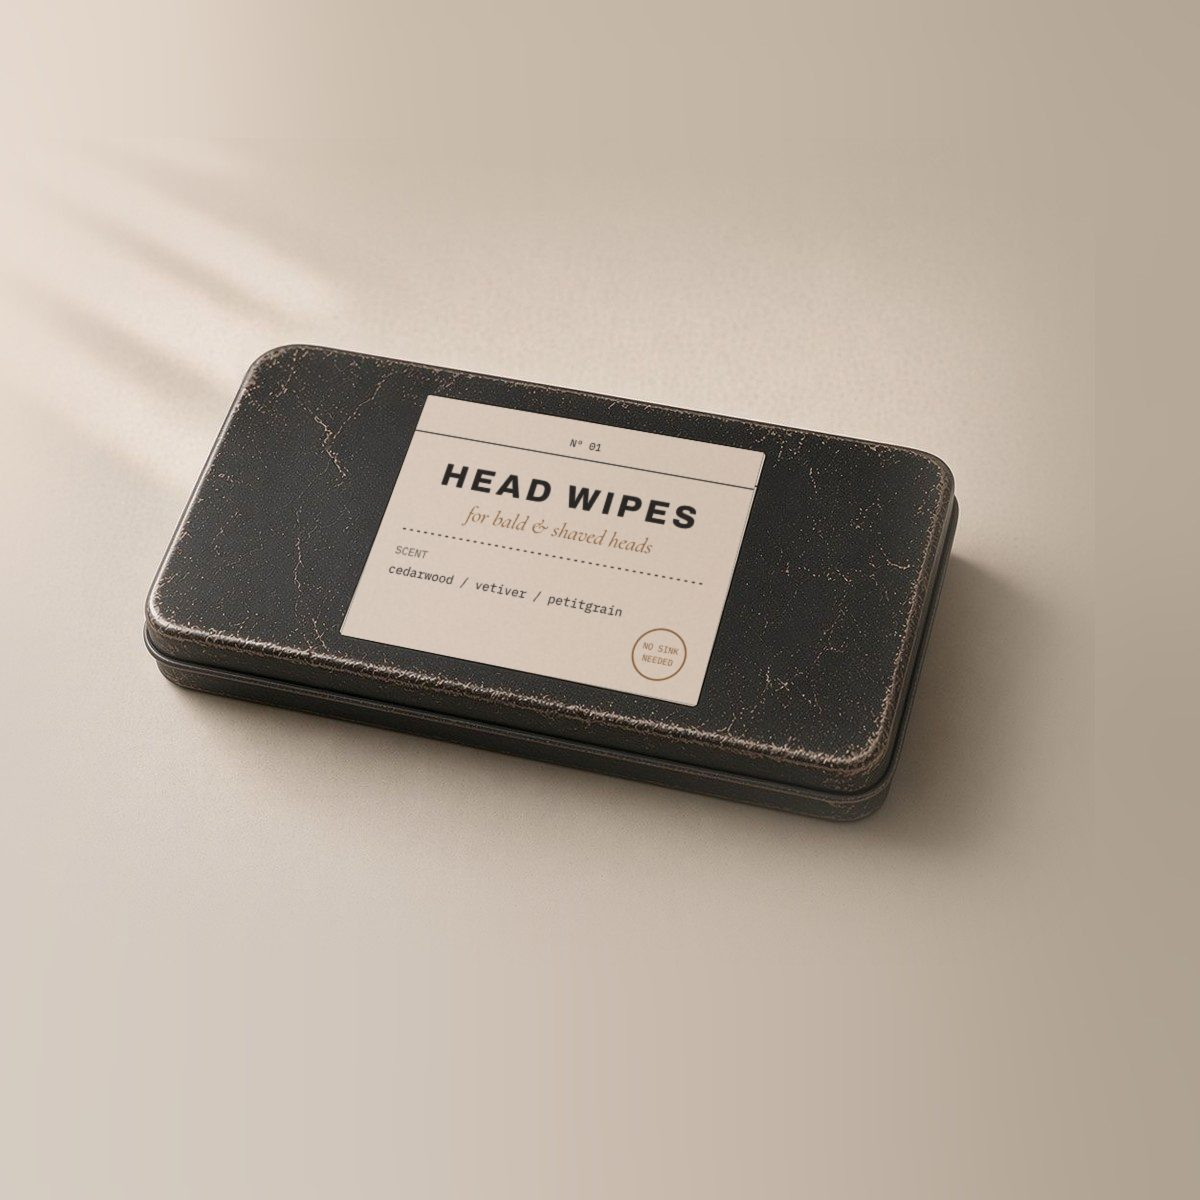
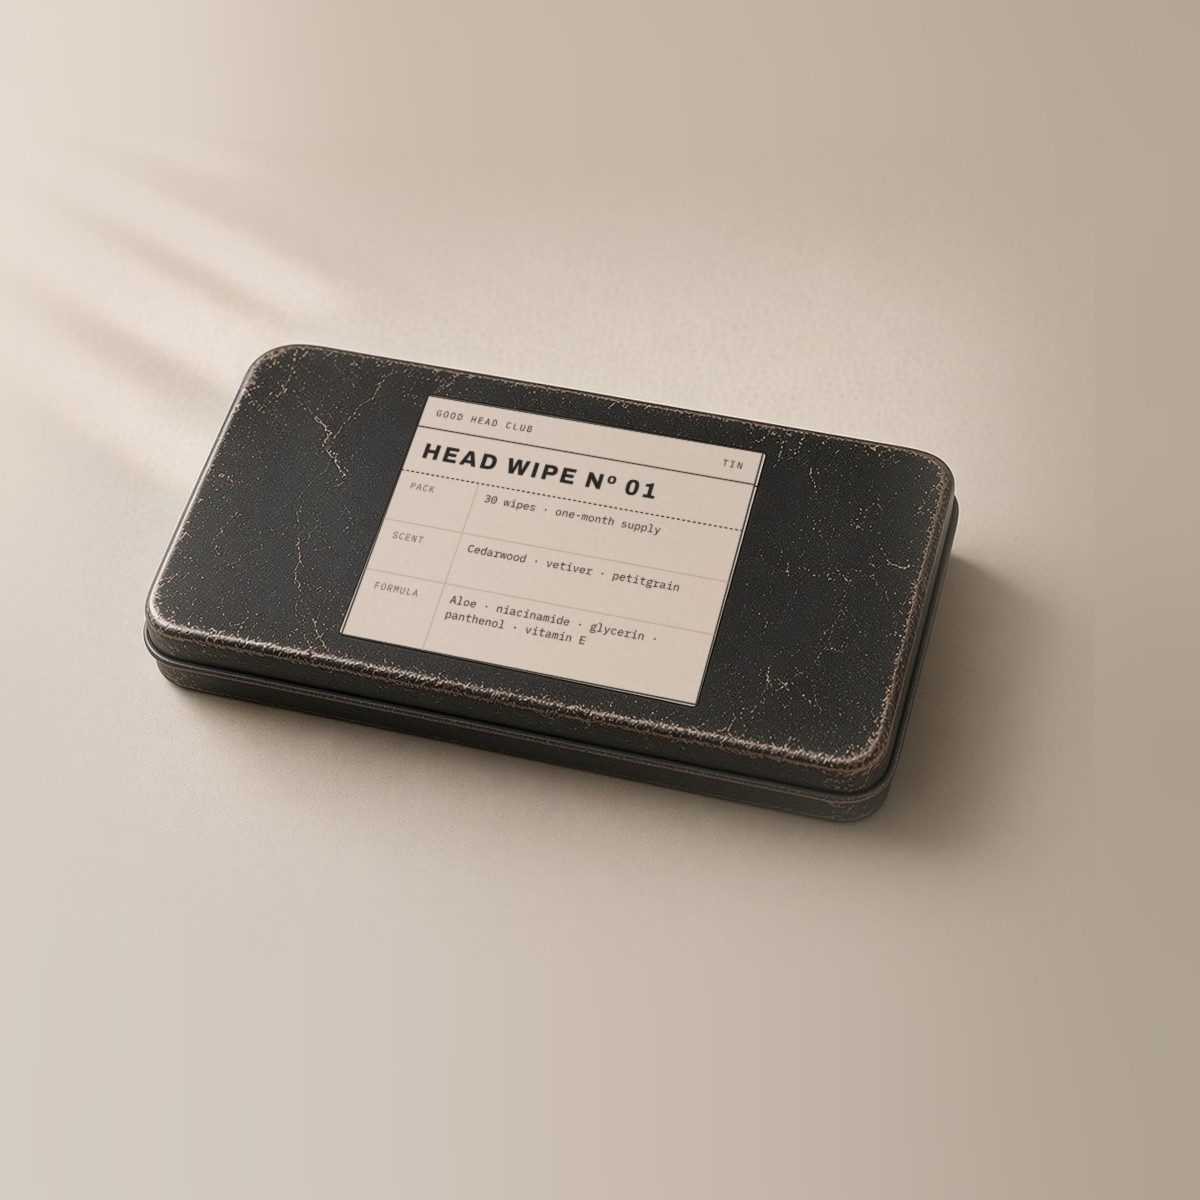
Spec-sheet labels on tin and pouch

Changed region(s): [[0.3083, 0.3392, 0.6167, 0.5242], [0.5242, 0.5242, 0.5858, 0.5858], [0.6167, 0.4008, 0.6475, 0.4317]]

diff --git a/index.html b/index.html
@@ -282,7 +282,7 @@ footer .logo{color:var(--paper);font-size:.8rem}
      <linearGradient id="sheen" x1="0" x2="1"><stop offset="0" stop-color="#fff" stop-opacity="0"/><stop offset=".5" stop-color="#fff" stop-opacity=".08"/><stop offset="1" stop-color="#fff" stop-opacity="0"/></linearGradient>
      <pattern id="crimp" width="6" height="6" patternUnits="userSpaceOnUse"><path d="M0 6L3 0L6 6" fill="none" stroke="#3a3734" stroke-width="1"/></pattern>
     </defs></svg>
-   <button type="button" class="flip" aria-pressed="false" aria-label="Good Head Club head wipes pouch. Showing front: typed paper label reading Head Wipes, for bald and shaved heads. Press to flip and see the back with tear notch and press-to-seal zip.">
+   <button type="button" class="flip" aria-pressed="false" aria-label="Good Head Club head wipes pouch. Showing front: spec-sheet label reading Head Wipe Nº 01, 15 wipes, two-week supply. Press to flip and see the back with tear notch and press-to-seal zip.">
     <span class="flip-in">
      <span class="face face-f"><svg viewBox="0 0 280 360" aria-hidden="true" focusable="false"><!-- FRONT of pack -->
      <path d="M16 10Q10 10 10 20V340Q10 350 16 350H264Q270 350 270 340V20Q270 10 264 10Z" fill="url(#foil)"/>
@@ -292,18 +292,28 @@ footer .logo{color:var(--paper);font-size:.8rem}
      <line x1="24" y1="59" x2="256" y2="59" stroke="#8d877d" stroke-width=".6" stroke-dasharray="3 3" opacity=".45"/>
      <rect x="10" y="10" width="130" height="340" fill="url(#sheen)"/>
      <g>
-      <rect x="44" y="72" width="192" height="214" fill="#f3eee2" stroke="#111" stroke-width="1"/>
-      <text x="140" y="94" font-family="IBM Plex Mono,Courier New,monospace" font-size="7.5" fill="#111" text-anchor="middle">Nº 01</text>
-      <line x1="44" y1="102" x2="236" y2="102" stroke="#111"/>
-      <text x="140" y="140" font-family="Archivo,Arial,sans-serif" font-weight="800" font-size="20" letter-spacing="3" fill="#111" text-anchor="middle">HEAD WIPES</text>
-      <text x="140" y="162" font-family="Cormorant Garamond,Georgia,serif" font-style="italic" font-size="14" fill="#8a5a2b" text-anchor="middle">for bald &amp; shaved heads</text>
-      <line x1="56" y1="180" x2="224" y2="180" stroke="#111" stroke-dasharray="2 3"/>
-      <text x="56" y="200" font-family="IBM Plex Mono,Courier New,monospace" font-size="7.5" fill="#5c5850">SCENT</text>
-      <text x="56" y="214" font-family="IBM Plex Mono,Courier New,monospace" font-size="7.6" fill="#111">cedarwood / vetiver / petitgrain</text>
-      <circle cx="202" cy="252" r="18" fill="none" stroke="#8a5a2b" stroke-width="1.2"/>
-      <text x="202" y="250" font-family="IBM Plex Mono,Courier New,monospace" font-size="6" fill="#8a5a2b" text-anchor="middle">NO SINK</text>
-      <text x="202" y="259" font-family="IBM Plex Mono,Courier New,monospace" font-size="6" fill="#8a5a2b" text-anchor="middle">NEEDED</text>
-     </g>
+<rect x="44" y="72" width="192" height="214" fill="#fbf9f3" stroke="#111" stroke-width="1"/>
+<text x="54" y="86.4" font-family="IBM Plex Mono,Courier New,monospace" font-size="6.6" letter-spacing="1.1" fill="#111">GOOD HEAD CLUB</text>
+<text x="226" y="86.4" font-family="IBM Plex Mono,Courier New,monospace" font-size="6.6" letter-spacing="1.1" fill="#111" text-anchor="end">TRAVEL PACK</text>
+<line x1="44" y1="96" x2="236" y2="96" stroke="#111" stroke-width=".8"/>
+<text x="54" y="117.86" font-family="Archivo,Arial,sans-serif" font-weight="800" font-size="13.5" letter-spacing="1.62" fill="#111">HEAD WIPE Nº 01</text>
+<line x1="44" y1="130" x2="236" y2="130" stroke="#111" stroke-width=".8" stroke-dasharray="2 1.6"/>
+<text x="54" y="142.29" font-family="IBM Plex Mono,Courier New,monospace" font-size="6.3" letter-spacing=".7" fill="#5c5850">PACK</text>
+<text x="101" y="142.29" font-family="IBM Plex Mono,Courier New,monospace" font-size="7.4" fill="#111">15 wipes ·</text>
+<text x="101" y="152.28" font-family="IBM Plex Mono,Courier New,monospace" font-size="7.4" fill="#111">two-week supply</text>
+<line x1="94" y1="130" x2="94" y2="178.67000000000002" stroke="#d6cfc1" stroke-width=".8"/>
+<line x1="44" y1="178.67000000000002" x2="236" y2="178.67000000000002" stroke="#d6cfc1" stroke-width=".8"/>
+<text x="54" y="190.96" font-family="IBM Plex Mono,Courier New,monospace" font-size="6.3" letter-spacing=".7" fill="#5c5850">SCENT</text>
+<text x="101" y="190.96" font-family="IBM Plex Mono,Courier New,monospace" font-size="7.4" fill="#111">Cedarwood · vetiver</text>
+<text x="101" y="200.95000000000002" font-family="IBM Plex Mono,Courier New,monospace" font-size="7.4" fill="#111">· petitgrain</text>
+<line x1="94" y1="178.67000000000002" x2="94" y2="227.34000000000003" stroke="#d6cfc1" stroke-width=".8"/>
+<line x1="44" y1="227.34000000000003" x2="236" y2="227.34000000000003" stroke="#d6cfc1" stroke-width=".8"/>
+<text x="54" y="239.63000000000002" font-family="IBM Plex Mono,Courier New,monospace" font-size="6.3" letter-spacing=".7" fill="#5c5850">FORMULA</text>
+<text x="101" y="239.63000000000002" font-family="IBM Plex Mono,Courier New,monospace" font-size="7.4" fill="#111">Aloe · niacinamide</text>
+<text x="101" y="249.62000000000003" font-family="IBM Plex Mono,Courier New,monospace" font-size="7.4" fill="#111">· glycerin · panthenol</text>
+<text x="101" y="259.61" font-family="IBM Plex Mono,Courier New,monospace" font-size="7.4" fill="#111">· vitamin E</text>
+<line x1="94" y1="227.34000000000003" x2="94" y2="286.00000000000006" stroke="#d6cfc1" stroke-width=".8"/>
+</g>
      <text x="140" y="314" font-family="IBM Plex Mono,Courier New,monospace" font-size="6.5" letter-spacing="1.4" fill="#8d877d" text-anchor="middle">FRONT · RESEALABLE ON BACK</text>
     </svg></span>
      <span class="face face-b"><svg viewBox="0 0 280 360" aria-hidden="true" focusable="false"><!-- BACK of pack: stand-up pouch, tear notch + press-to-close zip -->
@@ -330,7 +340,7 @@ footer .logo{color:var(--paper);font-size:.8rem}
    <div class="pouch-view">
     <div class="car" role="region" aria-roledescription="carousel" aria-label="Travel pack images" tabindex="0">
      <div class="track">
-      <div class="slide pslide" role="img" aria-roledescription="slide" aria-label="1 of 2: travel pack front, typed paper label reading Head Wipes"><svg viewBox="0 0 280 360" aria-hidden="true" focusable="false"><!-- FRONT of pack -->
+      <div class="slide pslide" role="img" aria-roledescription="slide" aria-label="1 of 2: travel pack front, spec-sheet label reading Head Wipe Nº 01, 15 wipes, two-week supply"><svg viewBox="0 0 280 360" aria-hidden="true" focusable="false"><!-- FRONT of pack -->
      <path d="M16 10Q10 10 10 20V340Q10 350 16 350H264Q270 350 270 340V20Q270 10 264 10Z" fill="url(#foil)"/>
      <rect x="10" y="10" width="260" height="20" fill="url(#crimp)"/>
      <rect x="10" y="330" width="260" height="20" fill="url(#crimp)"/>
@@ -338,18 +348,28 @@ footer .logo{color:var(--paper);font-size:.8rem}
      <line x1="24" y1="59" x2="256" y2="59" stroke="#8d877d" stroke-width=".6" stroke-dasharray="3 3" opacity=".45"/>
      <rect x="10" y="10" width="130" height="340" fill="url(#sheen)"/>
      <g>
-      <rect x="44" y="72" width="192" height="214" fill="#f3eee2" stroke="#111" stroke-width="1"/>
-      <text x="140" y="94" font-family="IBM Plex Mono,Courier New,monospace" font-size="7.5" fill="#111" text-anchor="middle">Nº 01</text>
-      <line x1="44" y1="102" x2="236" y2="102" stroke="#111"/>
-      <text x="140" y="140" font-family="Archivo,Arial,sans-serif" font-weight="800" font-size="20" letter-spacing="3" fill="#111" text-anchor="middle">HEAD WIPES</text>
-      <text x="140" y="162" font-family="Cormorant Garamond,Georgia,serif" font-style="italic" font-size="14" fill="#8a5a2b" text-anchor="middle">for bald &amp; shaved heads</text>
-      <line x1="56" y1="180" x2="224" y2="180" stroke="#111" stroke-dasharray="2 3"/>
-      <text x="56" y="200" font-family="IBM Plex Mono,Courier New,monospace" font-size="7.5" fill="#5c5850">SCENT</text>
-      <text x="56" y="214" font-family="IBM Plex Mono,Courier New,monospace" font-size="7.6" fill="#111">cedarwood / vetiver / petitgrain</text>
-      <circle cx="202" cy="252" r="18" fill="none" stroke="#8a5a2b" stroke-width="1.2"/>
-      <text x="202" y="250" font-family="IBM Plex Mono,Courier New,monospace" font-size="6" fill="#8a5a2b" text-anchor="middle">NO SINK</text>
-      <text x="202" y="259" font-family="IBM Plex Mono,Courier New,monospace" font-size="6" fill="#8a5a2b" text-anchor="middle">NEEDED</text>
-     </g>
+<rect x="44" y="72" width="192" height="214" fill="#fbf9f3" stroke="#111" stroke-width="1"/>
+<text x="54" y="86.4" font-family="IBM Plex Mono,Courier New,monospace" font-size="6.6" letter-spacing="1.1" fill="#111">GOOD HEAD CLUB</text>
+<text x="226" y="86.4" font-family="IBM Plex Mono,Courier New,monospace" font-size="6.6" letter-spacing="1.1" fill="#111" text-anchor="end">TRAVEL PACK</text>
+<line x1="44" y1="96" x2="236" y2="96" stroke="#111" stroke-width=".8"/>
+<text x="54" y="117.86" font-family="Archivo,Arial,sans-serif" font-weight="800" font-size="13.5" letter-spacing="1.62" fill="#111">HEAD WIPE Nº 01</text>
+<line x1="44" y1="130" x2="236" y2="130" stroke="#111" stroke-width=".8" stroke-dasharray="2 1.6"/>
+<text x="54" y="142.29" font-family="IBM Plex Mono,Courier New,monospace" font-size="6.3" letter-spacing=".7" fill="#5c5850">PACK</text>
+<text x="101" y="142.29" font-family="IBM Plex Mono,Courier New,monospace" font-size="7.4" fill="#111">15 wipes ·</text>
+<text x="101" y="152.28" font-family="IBM Plex Mono,Courier New,monospace" font-size="7.4" fill="#111">two-week supply</text>
+<line x1="94" y1="130" x2="94" y2="178.67000000000002" stroke="#d6cfc1" stroke-width=".8"/>
+<line x1="44" y1="178.67000000000002" x2="236" y2="178.67000000000002" stroke="#d6cfc1" stroke-width=".8"/>
+<text x="54" y="190.96" font-family="IBM Plex Mono,Courier New,monospace" font-size="6.3" letter-spacing=".7" fill="#5c5850">SCENT</text>
+<text x="101" y="190.96" font-family="IBM Plex Mono,Courier New,monospace" font-size="7.4" fill="#111">Cedarwood · vetiver</text>
+<text x="101" y="200.95000000000002" font-family="IBM Plex Mono,Courier New,monospace" font-size="7.4" fill="#111">· petitgrain</text>
+<line x1="94" y1="178.67000000000002" x2="94" y2="227.34000000000003" stroke="#d6cfc1" stroke-width=".8"/>
+<line x1="44" y1="227.34000000000003" x2="236" y2="227.34000000000003" stroke="#d6cfc1" stroke-width=".8"/>
+<text x="54" y="239.63000000000002" font-family="IBM Plex Mono,Courier New,monospace" font-size="6.3" letter-spacing=".7" fill="#5c5850">FORMULA</text>
+<text x="101" y="239.63000000000002" font-family="IBM Plex Mono,Courier New,monospace" font-size="7.4" fill="#111">Aloe · niacinamide</text>
+<text x="101" y="249.62000000000003" font-family="IBM Plex Mono,Courier New,monospace" font-size="7.4" fill="#111">· glycerin · panthenol</text>
+<text x="101" y="259.61" font-family="IBM Plex Mono,Courier New,monospace" font-size="7.4" fill="#111">· vitamin E</text>
+<line x1="94" y1="227.34000000000003" x2="94" y2="286.00000000000006" stroke="#d6cfc1" stroke-width=".8"/>
+</g>
      <text x="140" y="314" font-family="IBM Plex Mono,Courier New,monospace" font-size="6.5" letter-spacing="1.4" fill="#8d877d" text-anchor="middle">FRONT · RESEALABLE ON BACK</text>
     </svg></div>
       <div class="slide pslide" role="img" aria-roledescription="slide" aria-label="2 of 2: travel pack back, tear notch and press-to-seal zip"><svg viewBox="0 0 280 360" aria-hidden="true" focusable="false"><!-- BACK of pack: stand-up pouch, tear notch + press-to-close zip -->
@@ -524,7 +544,7 @@ if(bar&&hb&&fin){var past=false,inFin=false;if(/[?&]sticky\b/.test(location.sear
 })();
 </script>
 <script>
-(function(){var b=document.querySelector('.flip');if(!b)return;var F='Good Head Club head wipes pouch. Showing front: typed paper label reading Head Wipes, for bald and shaved heads. Press to flip and see the back.',B='Good Head Club head wipes pouch. Showing back: tear notch, press-to-seal zip and the line Tear. Zip. Done. Press to flip to the front.';
+(function(){var b=document.querySelector('.flip');if(!b)return;var F='Good Head Club head wipes pouch. Showing front: spec-sheet label reading Head Wipe Nº 01, 15 wipes, two-week supply. Press to flip and see the back.',B='Good Head Club head wipes pouch. Showing back: tear notch, press-to-seal zip and the line Tear. Zip. Done. Press to flip to the front.';
 function set(v){b.classList.toggle('is-flipped',v);b.setAttribute('aria-pressed',v);b.setAttribute('aria-label',v?B:F)}
 b.addEventListener('click',function(){set(!b.classList.contains('is-flipped'))});
 b.addEventListener('mouseleave',function(){if(matchMedia('(hover:hover)').matches)set(false)});
